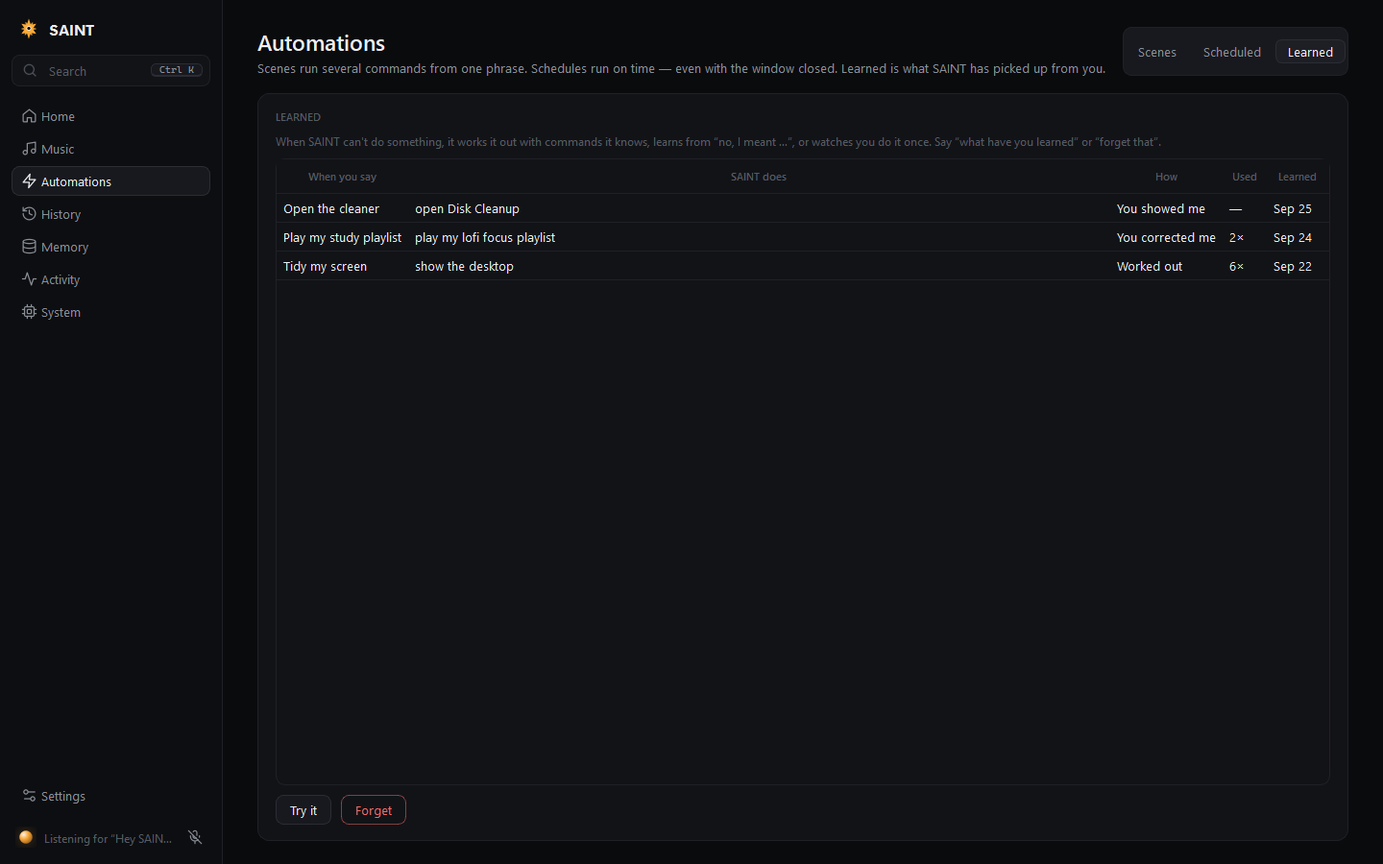
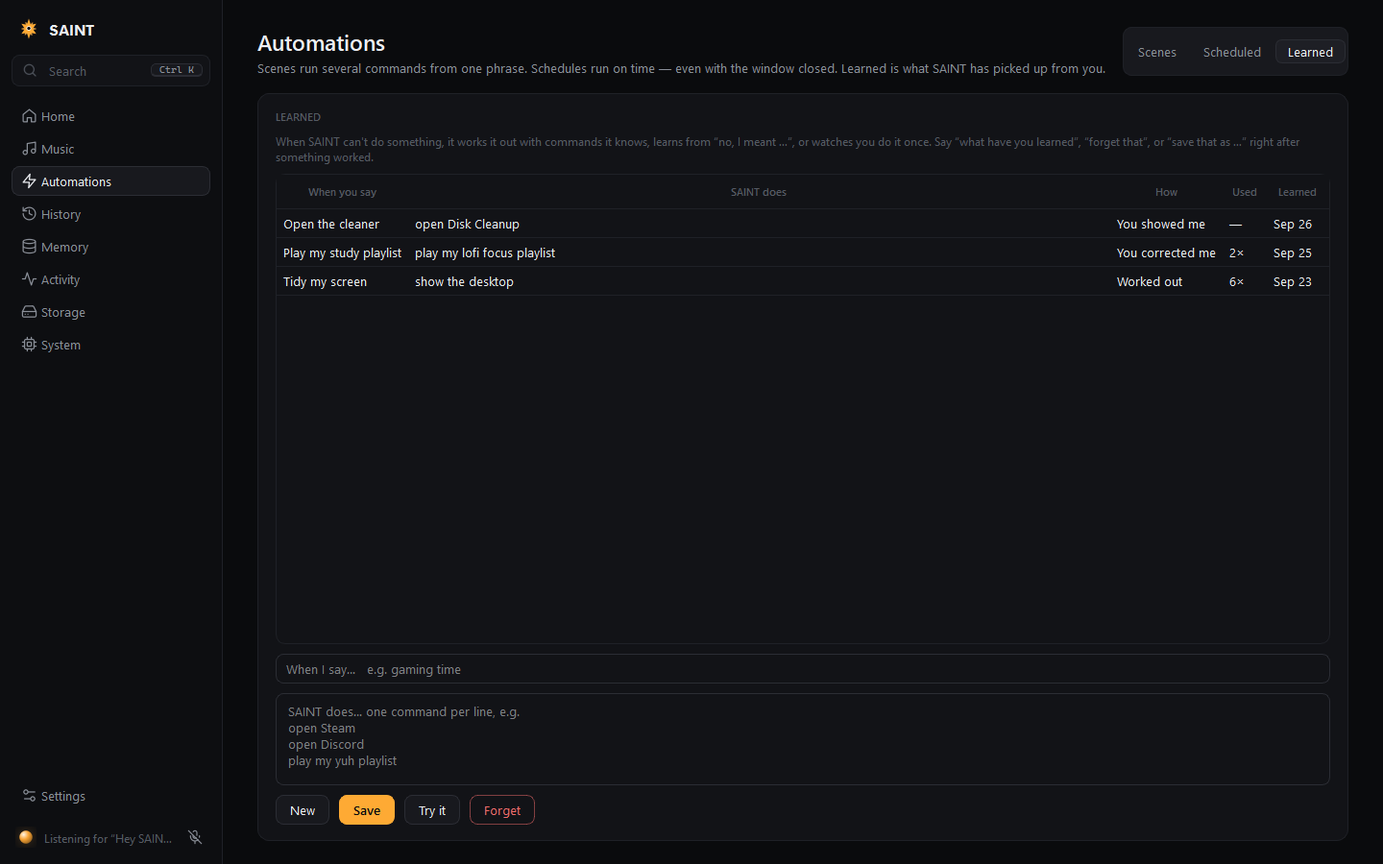
Docs: short-term memory, Storage page, checklist updates, new screenshots (synthetic data)

diff --git a/README.md b/README.md
@@ -46,17 +46,54 @@ UI elements). The language model runs locally through [Ollama](https://ollama.co
 
 ## What's new in this version
 
-**Latest — SAINT learns what it can't do yet:**
+**Latest — SAINT remembers what just happened:**
+
+- **Short-term memory.** SAINT keeps track of what it did, made or found in the last half hour — the
+  screenshot it took, the folder it extracted, what a junk check found, the app it opened, the playlist it
+  played. So you can follow up naturally: "delete that screenshot", "open that folder", "move it to my C:
+  games folder", "rename it to TheLoop", "copy the path", "what did you find?", "delete it", "the other old
+  installers too", "go to my most recent download and delete it". Removing or moving anything still asks
+  first, and only ever uses the Recycle Bin. The language model is given the same list as facts, so it
+  answers "what did you find?" from what really happened instead of guessing a path.
+- **Corrections that name only the thing.** "I meant my moe playlist", "I said Claude" (after "switch to
+  Glod"), "no, the folder you just made" — SAINT fits the right thing into your last request. Spelled
+  letters work too: "…spelled M-O-E". A correction also answers an open "Did you mean …?" question.
+- **Files by voice.** "Make a new folder in my games folder called The Loop", "move it to the D drive",
+  "rename it", "show it in Explorer", "open the screenshot". Spoken places like "my C: games folder" or
+  "games/the loop" resolve to real folders.
+- **Storage page.** A new sidebar page: drive space, what's using it, and **What you can clear** — a chart
+  by category (graphics shader caches, Spotify/Discord caches, browser caches, old temp files, crash dumps,
+  developer caches, duplicate downloads, old installers, Windows Update leftovers, what's already in the
+  Recycle Bin) and a list you tick. The junk check now looks in far more places.
+- **Learning you can edit.** Automations → Learned has an editor: change what a phrase does, or add your
+  own ("gaming time" → open Steam, open Discord). By voice: "save that as game time" right after something
+  worked, or "make a shortcut called gaming time that opens Steam and Discord". "Switch back", "delete it"
+  and other pointing phrases are never saved as recipes.
+- **Watching asks first.** After something fails SAINT asks "Want to show me?" — only "yes" starts watching,
+  so it no longer records the wrong thing at the wrong time. More ways to say it ("watch me do it", "I'm
+  going to do it now, watch"), more ways to finish ("I'm all done"), and it notices windows moved to
+  another screen or maximized. Programs it sees you start that it couldn't find by name (taskbar-only apps
+  like Bloxstrap) are added to its app list; things an app starts by itself aren't recorded as steps.
+- **Fixes from the 2026-09-25 evening log.** Spotify no longer needs reconnecting at every launch (a test
+  had been wiping the saved login; a Spotify hiccup no longer forgets it either). Scrolling really scrolls
+  (it was moving 1/20 of a wheel notch) and "scroll more" / "keep scrolling" go further each time.
+  One-word answers ("Yeah.") and short commands ("Press enter.") aren't dropped as low-confidence speech.
+  "Delete …" never means "forget a memory". "The loop layer" isn't YouTube's loop. "Close that window"
+  names the window it means. The planner can't click things you never named or press Delete on its own.
+  Opening the Steam library when Steam is closed waits for Steam, then opens it. Apps pinned only to the
+  taskbar or the desktop are found by name ("open Bloxstrap", "block strap").
+
+**Earlier — SAINT learns what it can't do yet:**
 
 - **It tries harder.** When a request isn't one SAINT knows ("hop over to Discord", "open disk, clean up")
   or what it tried fails ("I couldn't find a window for all my windows"), the local model rewrites the
   request as commands SAINT *does* know ("switch to discord"; "show the desktop" then "double click the
   recycle bin"). Every step is checked before anything runs, so the model only ever picks real,
   permission-checked commands. If it works, SAINT remembers: next time it's instant.
-- **"No, I meant …" teaches it.** "Play my kpop playlist" → "no, I meant play my yuh playlist" plays yuh
-  *and* remembers that's what "my kpop playlist" means. "No, close the finals" answers a question and does
+- **"No, I meant …" teaches it.** "Play my gym playlist" → "no, I meant play my moe playlist" plays moe
+  *and* remembers that's what "my gym playlist" means. "No, close the finals" answers a question and does
   it.
-- **Show it once.** If SAINT still can't work it out, it says so and watches (a pill shows "Watching how you
+- **Show it once.** If SAINT still can't work it out, it offers to watch (a pill shows "Watching how you
   do it"). Do it yourself, say "done", and SAINT turns what you did into steps it can repeat — apps you
   opened, buttons and icons you clicked (by name), shortcuts you pressed. It never records what you type.
   "Let me show you how to …" starts a lesson any time.
@@ -67,7 +104,7 @@ UI elements). The language model runs locally through [Ollama](https://ollama.co
   windows", "right click the desktop on my main screen", "double left click", "the recycling bin" (the
   desktop icon, not text on screen), "close the finals" / "close to area" (finds the game by its Steam
   folder or a misheard name and asks with the real name; offers a force quit if it won't close), "take a
-  screenshot of Claude", "turn down Spotify", "open YouTube and fullscreen it", "my kpop playlist" never
+  screenshot of Claude", "turn down Spotify", "open YouTube and fullscreen it", "my gym playlist" never
   silently becomes a stranger's playlist, "never play that playlist again", a repeated request isn't
   dropped as a loop, and the model can't ban artists or record dislikes from a chat reply anymore.
 - **Voicemeeter.** "Mute" / "unmute" / "mute my mic" mute Voicemeeter's mic strip; "switch my audio to my
@@ -89,7 +126,7 @@ UI elements). The language model runs locally through [Ollama](https://ollama.co
   folder". Duplicate downloads, archives you've already extracted, temp files, shader caches and old
   recordings are found for you. Games, emulators, ROMs and Steam libraries are never suggested. Anything
   removed goes to the Recycle Bin **after you say yes** — SAINT never deletes permanently and refuses
-  anything the Recycle Bin couldn't hold. The System page has a Storage card with every drive, a scan and
+  anything the Recycle Bin couldn't hold. The Storage page has every drive, a scan and
   the biggest folders.
 - **WinRAR.** "Go to my Downloads folder, click the first download and extract it using WinRAR to my games
   folder" is one action: the newest archive, into its own folder, with a free-space check, progress, no
@@ -184,7 +221,7 @@ A ground-up rewrite of the interface:
 | **Music** — cover-tinted player, hands-free words, queue | **History** — a year of activity, streaks and timeline |
 | ![Automations](docs/screenshots/automations.png) | ![System](docs/screenshots/system.png) |
 | **Scenes** — one phrase, many actions | **System** — health, storage, latency, modules |
-| ![Learned](docs/screenshots/automations-learned.png) | |
+| ![Learned](docs/screenshots/automations-learned.png) | ![Storage](docs/screenshots/storage.png) |
 | **Learned** — what SAINT worked out, was corrected on, or was shown | |
 
 <sub>Screenshots are generated by `tools/dev/screenshots.py` from synthetic demo data (fictional tracks
@@ -246,7 +283,7 @@ That live run fed synthesized speech into SAINT's voice loop in place of the mic
 | Music hot-words ("skip", "pause", "louder" with no wake word while music plays) | ✅ Tested end-to-end through the voice loop with synthetic audio. ⚠ One-word hot-words were fixed after a live run (Whisper scores single words near zero confidence) and need a live re-check. |
 | Scenes (voice phrase, "run …", UI, schedule) and History | ✅ Covered by automated tests. |
 | Steam: installed games, sizes, library/store, launch | ✅ Game list and sizes verified live against this PC's libraries. ⚠ Launching and uninstalling by voice need a live check. |
-| Drive space, biggest folders, junk report, Storage card | ✅ Verified live, read-only (a 500 GB drive with 1.9 M files scans in under a minute). ⚠ Recycling and moving are covered by tests with a simulated Windows file operation; try them on a test folder first. |
+| Drive space, biggest folders, junk report, Storage page | ✅ Verified live, read-only (a 500 GB drive with 1.9 M files scans in under a minute). ⚠ Recycling and moving are covered by tests with a simulated Windows file operation; try them on a test folder first. |
 | WinRAR extraction and compression | ✅ Verified with the installed WinRAR against test archives. |
 | Windows controls (lock, power, mic, per-app volume, output device, brightness) | ✅ Audio devices and sessions read live. ⚠ Changing them by voice needs a live check. |
 | Stop / silent mode / whisper replies / "what are you doing?" | ✅ Covered by tests. ⚠ Whisper loudness needs a live check. |
@@ -721,7 +758,7 @@ permanently: removals go to the Recycle Bin, and SAINT checks the Recycle Bin ca
 
 **Files and storage** (`modules/files`) — drive overview, background scans (cached for
 `files.scan_cache_hours`), a junk report, and cleanup that asks before anything moves. "My games folder" is
-`files.games_dir` (default `D:\Games`); name more folders in `files.known`. Never touched: Windows, Program
+`files.games_dir` (default `D:\Games` — set it in Settings); name more folders in `files.known`. Never touched: Windows, Program
 Files, ProgramData, drive roots, your profile folder itself, code repositories and SAINT. Never suggested:
 Steam libraries, your games folder, emulators and ROMs.
 
@@ -755,6 +792,22 @@ announced; apps in `notifications.deny` never are. "Read my notifications" works
 
 **Aliases** — "when I say X, I mean Y" (`data/aliases.json`); "what aliases do I have", "forget the alias X".
 
+**Storage page** — drive space and the biggest folders on top; below, **What you can clear**: *Check for
+junk* looks through Downloads (duplicates, archives you've already extracted, old installers, big downloads
+untouched for months), temp files older than `files.temp_age_days`, graphics shader caches, browser caches
+(Chrome, Edge, Brave, Opera, Firefox), Discord / Spotify / VS Code caches, crash dumps, developer caches
+(pip, uv, npm, Yarn — shown, never pre-ticked), old game recordings, Windows Update leftovers and old
+Windows installs, plus what's already in the Recycle Bin. A stacked bar and a per-category chart show where
+the space is; the list below is ticked for what's safe. *Move ticked to Recycle Bin* asks once more, then
+uses Windows' own Recycle Bin (never a permanent delete). Checks started by voice show up here too.
+
+**Short-term memory** (`modules/agent/recent.py`) — every tool result and finished background task leaves
+a note for 30 minutes: a screenshot taken, a folder extracted, made, moved or renamed, a junk check's
+findings, an app opened, a playlist played. "It" / "that" on their own only reach back 5 minutes; a named
+reference ("that screenshot", "the folder you just extracted") reaches the full 30. Removing ("delete it")
+only ever points at something SAINT made or found — never at a folder it merely opened — and still asks.
+The same notes go to the language model as facts, so it doesn't invent results. Nothing is saved to disk.
+
 ---
 
 ## Learning
@@ -766,7 +819,7 @@ request ─► learned skill? ─► run its steps
         └► router ─► ok ─► done
                   └► not known / "couldn't find…" ─► planner (local model)
                                                     ├─ steps SAINT understands? ─► run, verify ─► learn
-                                                    └─ no plan ─► "if you do it now, I'll watch and learn"
+                                                    └─ no plan ─► "want to show me?" ─► yes ─► watch
 "no, I meant X" ─► run X ─► learn it for the request before
 ```
 
@@ -774,16 +827,24 @@ request ─► learned skill? ─► run its steps
   route), the open windows, and what SAINT already learned, and answers with JSON steps. A step is only
   run if the router understands it and it's grounded in what you said (no "this window" unless you said
   it, no typing you didn't dictate, the monitor you named, no "…but YouTube" you never mentioned). Steps go
-  through the normal router, permission checks and confirmations.
+  through the normal router, permission checks and confirmations. It may only click something that
+  sounds like what you said, and only press keys if you asked it to press something.
 * **Skills** (`skills.py`, `data/skills.json`) — request → commands, learned three ways (worked out,
   corrected, shown). Matched before the router so a learned fix beats the old guess; close speech-to-text
-  variants match too. A skill that fails three times in a row is dropped.
+  variants match too. A skill that fails three times in a row is dropped (unless you wrote or edited it).
+  Requests that point at something ("switch back", "delete it", "open that folder") are never learned. Edit
+  or add skills on **Automations → Learned**, or say "save that as …" / "make a shortcut called … that …".
 * **Corrections** (`corrections.py`) — "no, I meant …", "I meant for you to …", "that's not what I asked
-  for, …" within 2½ minutes of a request.
+  for, …" within 2½ minutes of a request. A correction that names only the thing ("I meant my moe
+  playlist", "I said Claude") is fitted into the last request: the same kind of thing is swapped, or the
+  word that sounds most like it, or the same action is done on it. Letters spelled out ("M-O-E") are joined.
 * **Watch and learn** (`demonstration.py`) — polls the mouse buttons, keyboard *shortcuts* and the window
   list while a lesson runs (up to 2 minutes, ends 15 s after your last action or when you say "done").
   Clicks are named with Windows' accessibility info; Start-menu and taskbar clicks that only opened an app
-  become "open X". Plain typing is never recorded, only that it happened. Nothing is kept but the commands.
+  become "open X". A program another program started by itself isn't a step; windows moved to another
+  screen, maximized or minimized are. Programs SAINT couldn't find by name are added to `desktop.apps` with
+  the .exe that ran. Plain typing is never recorded, only that it happened. Nothing is kept but the
+  commands. After a failure SAINT only *offers* to watch; "yes" starts it.
 * Settings: `learning.planner`, `planner_timeout_sec`, `watch_and_learn`, `watch_after_failure`,
   `watch_max_sec`, `watch_idle_sec`.
 
@@ -937,7 +998,7 @@ core/
   logger.py, device.py, analytics.py, state.py, setup.py
 modules/
   voice/                mic capture, VAD, wake word (ONNX), STT, TTS
-  agent/                intent router, confirmations, LLM tool calling
+  agent/                intent router, confirmations, LLM tool calling, short-term memory (recent.py)
   automation/           tool registry, scheduler, time parser, scenes, background tasks
   spotify/              OAuth PKCE, API client, tools, listening memory
   memory/               SQLite store + structured memory service
@@ -955,7 +1016,7 @@ modules/
   ai/                   providers (Ollama/OpenAI-compatible/mock), context
 ui/
   main_window.py        shell: sidebar, pages, tray, hotkey, palette, toasts
-  pages/                home, music (+ NowPlaying), automations, history, memory, activity, system
+  pages/                home, music (+ NowPlaying), automations, history, memory, activity, storage, system
   halo.py, overlay.py   screen-edge Halo + edge tab, Steam-style overlay
   spotify_widget.py     floating mini player
   palette.py, toast.py, demo.py

diff --git a/docs/MANUAL_TESTING.md b/docs/MANUAL_TESTING.md
@@ -9,6 +9,8 @@ Legend: ✅ = verified automatically/live during development · 🔲 = needs you
 
 ## Voice
 
+I still cant give 1 word answers!!!!
+
 | | Test | Expected |
 |---|---|---|
 | ✅ | "SAINT" (bare), then wait, then "what time is it" | Chime after "SAINT"; answers the time |
@@ -154,9 +156,9 @@ Legend: ✅ = verified automatically/live during development · 🔲 = needs you
 |---|---|---|
 | Y | Start a long multi-step request or a scene, then "stop" | It stops before the next step; no keys left held down |
 | Y | "Be quiet for 5 minutes", then "skip" / "what time is it" / "open blahblah" | Acts silently on the first two (reply shown on screen), still says the error for the third |
-| 🔲 fixed — was: *not quieter* | Whisper "Hey SAINT, what time is it" (after a few normal requests) | Answer is noticeably quieter — a whisper is now judged against how loud you usually talk |
+| ⚠ known limit — was: *doesn't listen to me at all when I whisper* | Talk *softly* (not a whisper): "Hey SAINT, what time is it" | Quieter answer. A true whisper is below what the speech and wake-word detectors hear; loosening them brings back random speech, so it's left alone |
 | Y | During a long request: "what are you doing?" | Names the current step without cancelling it |
-| 🔲 | In a follow-up window, talk to someone else ("OK, why not?") | Ignored |
+| Y | In a follow-up window, talk to someone else ("OK, why not?") | Ignored |
 
 ## Steam
 
@@ -164,8 +166,8 @@ Legend: ✅ = verified automatically/live during development · 🔲 = needs you
 |---|---|---|
 | ✅ | "What games do I have" · "what are my biggest games" · "how big is Apex Legends" | Lists from Steam's files (verified live) |
 | Y | "Launch Terraria" · "start cs2" | Game starts through Steam |
-| 🔲 still not registered — was: *I added my games folder and it won't open it* | "Launch Apex Legends" (D:\SteamLibrary) | Steam's library list (steamapps\libraryfolders.vdf) still only has C:. In Steam → Settings → Storage → "+", pick the **D:** drive (Steam finds D:\SteamLibrary), not D:\Games |
-| 🔲 | "Open my Steam library and search how many dudes" | Opens the library, then "you don't have it" + store search |
+| 🔲 fixed — was: *"open my games folder" had SAINT unzipped into it; Apex won't launch* | "Open my games folder" · "launch Apex Legends" | Opens **C:\Games** (your games folder is now C:\Games; the SAINT-main folder in D:\Games came from an earlier "extract the latest download" test — delete it yourself if you like). Apex still needs D: added in Steam → Settings → Storage → "+" |
+| 🔲 fixed — was: *I had to open Steam myself* | With Steam **closed**: "Open my Steam library and search how many dudes" | "Starting Steam — I'll open your library as soon as it's up", then the library (and store search) opens by itself |
 
 ## Files, storage and WinRAR (try removals on a test folder first)
 
@@ -173,23 +175,40 @@ Legend: ✅ = verified automatically/live during development · 🔲 = needs you
 |---|---|---|
 | ✅ | "How much space is left on E" · "how full are my drives" | Real numbers (verified live) |
 | ✅ | "What's taking up space on E" | Announces the biggest folders when the background scan ends (E: ≈ 50 s) |
-| 🔲 | Put a file and an identical "file (1)" copy in Downloads → "clean up my Downloads" → "yes" | The copy goes to the Recycle Bin; restore it from there |
-| 🔲 improved — was: *works; wants visual feedback / percent* | "What can I delete on E", then "what are you doing?" | A pill at the bottom of the screen fills up with the percent; "what are you doing?" says "about N% done" |
-| 🔲 | "Empty the recycle bin" | Refuses, opens the Recycle Bin |
-| 🔲 | Download a .rar → "go to my Downloads folder, click the first download and extract it using WinRAR to my games folder" | Progress, then "Extracted … to D:\Games\…"; nothing overwritten |
-| 🔲 | "Unzip the latest download and delete it afterwards" → "yes" | Extracts, then asks, then recycles the archive |
-| 🔲 | "Move this folder to the D drive" (a test folder selected in Explorer) → "yes" | Windows' own move with progress; Ctrl+Z in Explorer undoes it |
-| 🔲 | System page → Storage → Scan / Check for junk | Bars, biggest folders with Open, junk summary |
+| 🔲 fixed — was: *follow-up questions didn't know what I meant* | "Clean up my Downloads" → "no" → "what did you find?" → "delete the old installers too" | Answers from the real result (no invented paths), then asks to recycle just the installers |
+| Y improved — was: *works; wants visual feedback / percent* | "What can I delete on E", then "what are you doing?" | A pill at the bottom of the screen fills up with the percent; "what are you doing?" says "about N% done" |
+| Y | "Empty the recycle bin" | Refuses, opens the Recycle Bin |
+| 🔲 fixed — was: *should go to C:\Games; couldn't move it from D: to C:* | "Extract the latest download to my games folder" → "open that folder" → "move it to the D drive" → "yes" → "move it back to my C: games folder" | Extracts into C:\Games\…, opens that folder, moves it (asks first) and back |
+| Y | "Unzip the latest download and delete it afterwards" → "yes" | Extracts, then asks, then recycles the archive |
+| 🔲 fixed — was: *Nah* | Select a test folder in Explorer → "move this folder to the D drive" → "yes" · or right after SAINT made/extracted a folder: "move it to the D drive" | Windows' own move; Ctrl+Z in Explorer undoes it. If Explorer's selection can't be read (Windows 11 tabs), use the second form and tell me |
+| 🔲 new — was: *no visual for the junk; didn't find much; could be its own tab* | Sidebar → **Storage** → *Check for junk* | A chart by category (shader caches, Spotify/Discord/browser caches, temp, crash dumps, dev caches, installers, Windows Update, Recycle Bin…) and a ticked list; on this PC it should find ~20 GB+. *Move ticked to Recycle Bin* asks first |
 
 ## Windows controls
 
 | | Test | Expected |
 |---|---|---|
-| 🔲 fixed — was: *should mute Voicemeeter Stereo Input 1 / B1, and bare "mute" should work* | "Mute" · "unmute" · "mute my mic on voicemeeter" | Voicemeeter's Stereo Input 1 (your LCS USB mic) mutes/unmutes (audio.voicemeeter.mic_strip to change) |
+| Y fixed — was: *should mute Voicemeeter Stereo Input 1 / B1, and bare "mute" should work* | "Mute" · "unmute" · "mute my mic on voicemeeter" | Voicemeeter's Stereo Input 1 (your LCS USB mic) mutes/unmutes (audio.voicemeeter.mic_strip to change) |
 | Y | "Set Spotify to 30 percent" · "mute the game" (a game in front) | Volume mixer changes for that app only |
-| 🔲 fixed — was: *use Voicemeeter: A2 (speakers) ↔ A1 (headphones)* | "Switch my audio to my headphones" · "use my speakers" | In Voicemeeter, strips playing on A2 move to A1 (HyperX), and back |
-| 🔲 | "Restart my PC" → "yes" → "cancel the shutdown" | Windows shows the 60 s warning, then it's cancelled |
-| 🔲 fixed — was: *"take a screenshot of Claude" captured both screens* | "Take a screenshot of Claude" · "take a screenshot of my left screen" | Only that window / screen in Pictures\Screenshots |
+| Y fixed — was: *use Voicemeeter: A2 (speakers) ↔ A1 (headphones)* | "Switch my audio to my headphones" · "use my speakers" | In Voicemeeter, strips playing on A2 move to A1 (HyperX), and back |
+| Y | "Restart my PC" → "yes" → "cancel the shutdown" | Windows shows the 60 s warning, then it's cancelled |
+| 🔲 fixed — was: *couldn't delete the screenshot afterwards* | "Take a screenshot of Claude" → "delete that screenshot" → "yes" | It goes to the Recycle Bin |
+
+## Short-term memory ("it", "that folder", "what did you find?")
+
+| | Test | Expected |
+|---|---|---|
+| 🔲 | "Clean up my D drive" → wait for the result → "what did you find?" → "is that safe to delete?" → "delete it" | Talks about what it really found (e.g. D:\WUDownloadCache), then asks before recycling (Windows Update files in Windows itself → opens Disk Cleanup instead) |
+| 🔲 | "Take a screenshot of my left screen" → "open it" → "show it in Explorer" → "rename it to test shot" | Opens the picture, selects it in Explorer, renames it (keeps .png) |
+| 🔲 | "Make a new folder in my games folder called The Loop" → "copy the path" → paste somewhere | C:\Games\The Loop exists; the path is on the clipboard |
+| 🔲 | "Go to my most recent download and delete it" → "yes" | The newest finished download goes to the Recycle Bin (asks first; never presses Delete for you) |
+| 🔲 | "Open that folder" with nothing made in the last minutes | "I haven't made or opened a folder in the last few minutes…" — no "couldn't find an app called that folder" |
+| 🔲 | "Switch to Glod" (a mishearing) → "I said Claude btw" | Switches to Claude |
+| 🔲 | "Close that window" right after "open disk cleanup" | "Do you want me to close Disk Cleanup?" |
+| 🔲 | "Scroll down" → "scroll more" → "keep scrolling" | Each one moves further; plain "scroll down" now moves a real amount |
+| 🔲 | "Click on the loop layer" (a page link) | Clicks it — never turns on YouTube's loop, never clicks something else |
+| 🔲 | Automations → Learned → select a row → change it → Save; *New* → "gaming time" / "open Steam" + "open Discord" → Save → say "gaming time" | Edits stick; the new one runs both |
+| 🔲 | Do something that works, then "save that as game time" → say "game time" | Repeats it |
+| 🔲 | Restart SAINT twice | Spotify stays connected (no Connect click) |
 
 ## Learning (SAINT working things out)
 
@@ -198,19 +217,19 @@ Learned requests show on **Automations → Learned** (Try it / Forget). Say "wha
 
 | | Test | Expected |
 |---|---|---|
-| 🔲 | "Minimize all my windows and double left click the recycling bin" | Every window minimizes, then the Recycle Bin opens |
-| 🔲 | "Open disk, clean up" (odd phrasing) | Opens Disk Cleanup; the next time it's instant |
-| 🔲 | Something it doesn't know: "hop over to Discord" · "get Spotify onto my left monitor" | It works it out ("switch to discord"), does it, and says it'll remember |
-| 🔲 | "Play my kpop playlist" → "no, I meant play my yuh playlist" → later "play my kpop playlist" | Plays yuh, says it'll remember; the third time plays yuh straight away |
-| 🔲 | "Play my kpop playlist" when none of yours is called that (and memory doesn't say) | "You don't have a playlist called kpop. Want me to play a public one?" — never plays a stranger's silently |
-| 🔲 | Something it can't do: it says "I'll watch and learn" → do it yourself (e.g. open Disk Cleanup from Start) → say "done" | "Got it. Next time you say … I'll open Disk Cleanup." A pill shows "Watching how you do it" while it watches |
-| 🔲 | "Let me show you how to open the recycle bin" → double-click it → "done" | Learns "double click Recycle Bin on the desktop" |
-| 🔲 | "Forget that" right after it learned something | That request goes back to how it was |
-| 🔲 | "Close the finals" / "close to area" (misheard) with the game running | "Do you want me to close THE FINALS / Terraria?" (the real name) → "yes" closes it; if the game ignores it, offers to force it to quit |
-| 🔲 | "No, close the finals" while SAINT asks something else | Answers the question *and* closes it |
-| 🔲 | "Never play that playlist again" while a playlist plays | Pauses; that playlist is skipped from then on |
-| 🔲 | Play a YouTube video out loud (no wake word), talk to someone in the room | Nothing is treated as a request (the follow-up check now also covers the window after actions and talking over SAINT) |
-| 🔲 | "Turn off the mini-player… Hey SAINT, turn off the mini-player" | Turns it off (a repeated request isn't dropped as a loop anymore) |
+| Y | "Minimize all my windows and double left click the recycling bin" | Every window minimizes, then the Recycle Bin opens |
+| 🔲 fixed — was: *I can't give 1-word answers* | "Close Disk Cleanup" → just "Yeah." · "press enter" as a follow-up | Both are heard (they used to be dropped as low-confidence speech) |
+| Y | Something it doesn't know: "hop over to Discord" · "get Spotify onto my left monitor" | It works it out ("switch to discord"), does it, and says it'll remember |
+| 🔲 fixed — was: *it just played my liked songs* | "Play my gym playlist" → "no, I meant my moe playlist" (or "…spelled M-O-E") → later "play my gym playlist" (use your own names) | Plays it and remembers; the old wrong "liked songs" lesson was removed |
+| 🔲 check — was: *it asked but didn't play it* | "Play my party playlist" (none of yours) → "yes" within 30 s | Says "You don't have a playlist called party" and plays a public one after yes. (The log only showed you answering "no, I meant…" — tell me if yes fails) |
+| 🔲 changed — was: *sometimes it watches the wrong thing at the wrong time* | Something it can't do → it asks "Want to show me?" → "yes" → do it → "I'm all done" | Only starts watching after yes; "I'm all done" finishes it |
+| 🔲 fixed — was: *showed it how to open Bloxstrap, it didn't remember* | "Open Bloxstrap" · "open block strap" · "let me show you how to put Claude on my right screen" → drag it → "done" | Bloxstrap opens (taskbar pins are now known apps); the lesson becomes "move Claude to my right screen" |
+| Y | "Forget that" right after it learned something | That request goes back to how it was |
+| Y | "Close the finals" / "close to area" (misheard) with the game running | "Do you want me to close THE FINALS / Terraria?" (the real name) → "yes" closes it; if the game ignores it, offers to force it to quit |
+| Y | "No, close the finals" while SAINT asks something else | Answers the question *and* closes it |
+| Y | "Never play that playlist again" while a playlist plays | Pauses; that playlist is skipped from then on |
+| Y | Play a YouTube video out loud (no wake word), talk to someone in the room | Nothing is treated as a request (the follow-up check now also covers the window after actions and talking over SAINT) |
+| Y | "Turn off the mini-player… Hey SAINT, turn off the mini-player" | Turns it off (a repeated request isn't dropped as a loop anymore) |
 
 ## Watching, workspaces, clipboard, notifications, developer mode
 
@@ -231,9 +250,9 @@ Learned requests show on **Automations → Learned** (Try it / Forget). Say "wha
 
 | | Test | Expected |
 |---|---|---|
-| 🔲 | Skip a song in the Spotify app itself | One `skips` row with source `app` within ~2 s |
-| 🔲 | Say "skip" | Exactly one `skips` row, source `voice` |
-| 🔲 | "More energetic" · "more like the last song" · "no more of this artist" | Picks change accordingly; the artist stops appearing |
+| Y | Skip a song in the Spotify app itself | One `skips` row with source `app` within ~2 s |
+| Y | Say "skip" | Exactly one `skips` row, source `voice` |
+| Y | "More energetic" · "more like the last song" · "no more of this artist" | Picks change accordingly; the artist stops appearing |
 
 ## History
 
